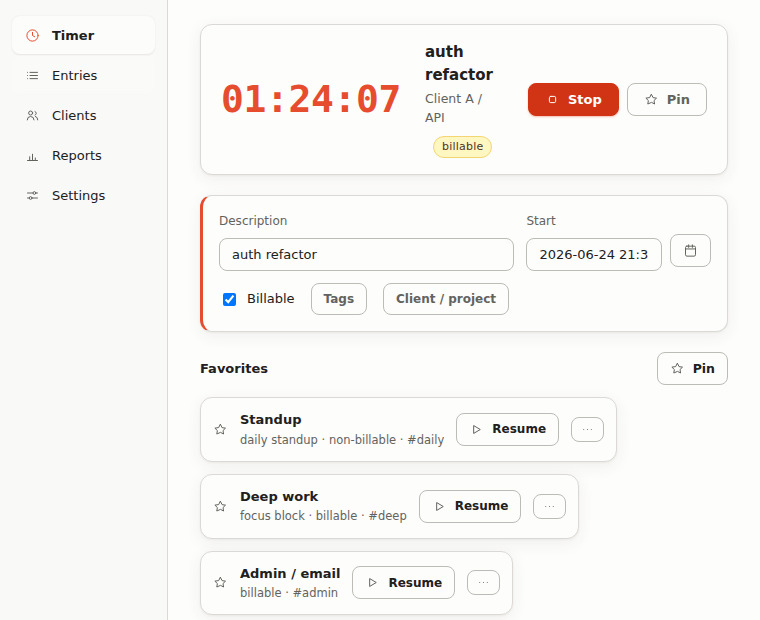
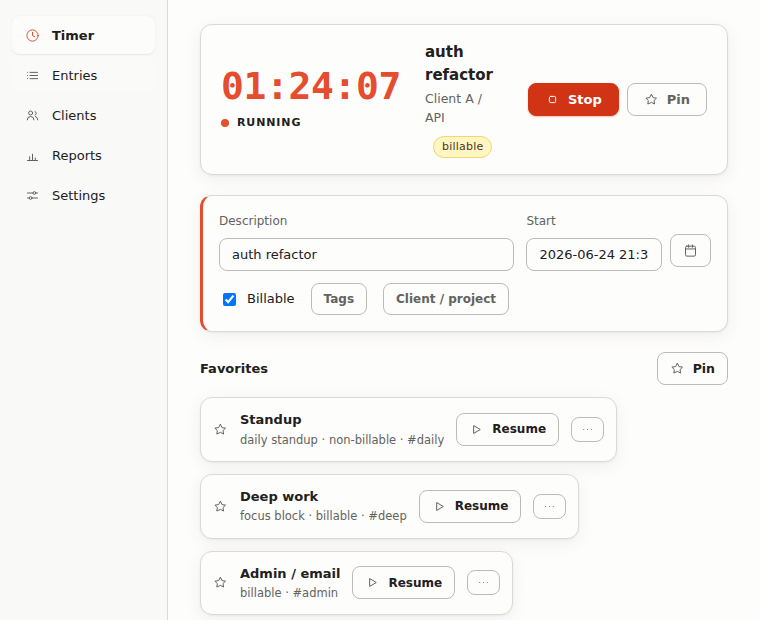
Say "running" on the Timer card (#142)
The card signalled the app's most important state by colour alone: no word,
no dot — only a count-up that turned clay. design.html D05 requires every
semantic state to carry a word or icon beside its colour, and A05 puts the
WCAG floor under it.

The state line was in the DOM all along, `display: none` on the reasoning
that "the green dot + the clay clock already say it" — but the card carried
no dot. It renders now: the word, inked, beside an accent `.tc-dot`, the
treatment `.timer-strip` already carried and this card never did.

The word takes --ink, not the accent it used to declare: at 11px an accent
word is accent-as-text below A01's >=24px large-text branch, the same breach
issue #141 closed on the strip clock. The accent moves to the dot, a non-text
mark on the A02 floor and design.html §07's recorded run-dot exemption.

Both JUDGE guards that should have caught this were presence-only reads of
`#timer-state.textContent`, which a display:none node satisfies — TIMER_VIEW
and COLOUR_PAIRING, the A05 scene itself. Both now score the rendered
outcome, and both fail against the pre-fix renderer.

Claude-Session: https://claude.ai/code/session_01AzRQKwjXmJgkskJZS9gRaD

Changed region(s): [[0.2724, 0.0919, 0.5447, 0.2145]]

diff --git a/packages/gui/renderer/styles.css b/packages/gui/renderer/styles.css
@@ -165,10 +165,12 @@ header.mast {
 }
 /* The running count-up is one of the two sanctioned accent uses on this card. */
 .timer-card.running .clock { color: var(--accent); }
-/* The running/idle word is redundant — the green dot + the clay running clock already say it —
-   so it is hidden (kept in the DOM for assistive tech + the harness probe). */
+/* design.html D05/A05 — this line is what keeps the card off colour-alone signalling. It was
+   display:none on the reasoning that "the green dot + the clay clock already say it", but the
+   card carried no dot: the recoloured count-up WAS the whole signal (issue 142). Worded and
+   dotted now — the treatment .timer-strip already carried and this card never did. */
 .timer-card .state {
-  display: none;
+  display: flex;
   align-items: center;
   gap: 8px;
   font-size: 11px;
@@ -178,8 +180,19 @@ header.mast {
   color: var(--muted);
   margin-top: 8px;
 }
-/* The running-state indicator is the other sanctioned accent use on this card. */
-.timer-card.running .state { color: var(--accent); }
+/* The dot is the other sanctioned accent use on this card, and it is a non-text mark on the A02
+   floor — which is why the accent sits here and not on the word beside it. At 11px the word
+   would be accent-as-text below A01's ≥24px large-text branch, the same breach issue 141 closed
+   on the strip clock; the word inks instead, and the accent signals in a shape A01 permits. */
+.timer-card .tc-dot {
+  width: 8px;
+  height: 8px;
+  border-radius: 50%;
+  background: var(--faint);
+  flex: none;
+}
+.timer-card.running .state { color: var(--ink); }
+.timer-card.running .tc-dot { background: var(--accent); }
 .timer-card .ctx { flex: 1; min-width: 0; }
 .timer-card .ctx .desc { font-size: 15px; font-weight: 590; color: var(--ink); margin-bottom: 4px; }
 .timer-card.idle .ctx .desc { color: var(--muted); font-weight: 450; }

diff --git a/packages/gui/renderer/index.html b/packages/gui/renderer/index.html
@@ -68,7 +68,11 @@
             <section class="timer-card idle" id="timer-card">
               <div class="tc-clock-block">
                 <div class="clock tnum" id="timer-clock">00:00:00</div>
-                <div class="state" id="timer-state">idle</div>
+                <!-- design.html D05/A05: the running state is said in a word AND marked with a
+                     dot, so it never rides on the recoloured count-up alone (issue #142). The
+                     dot is decorative to assistive tech — #timer-state-word carries the state
+                     in text, and #timer-state's own textContent is that word. -->
+                <div class="state" id="timer-state"><span class="tc-dot" aria-hidden="true"></span><span id="timer-state-word">idle</span></div>
               </div>
               <div class="ctx">
                 <div class="desc" id="timer-desc">nothing running</div>

diff --git a/context/mockups/timer.html b/context/mockups/timer.html
@@ -205,7 +205,12 @@
         <div class="r-top">
           <div>
             <div class="clock run tnum">01:23:45</div>
-            <div class="r-state"><span class="dot run"></span> since 09:00</div>
+            <!-- design.html D05/A05: the state line is dotted AND worded — the mark and the
+                 word together, so the running state never rides on the recoloured count-up
+                 alone. The shipped card drew neither until issue #142; it now renders this
+                 line as `running`, with the since-time reachable in the live-edit Start
+                 field below. -->
+            <div class="r-state"><span class="dot run"></span> running · since 09:00</div>
           </div>
           <div class="r-desc">
             <div class="d">Drafting proposals</div>

diff --git a/packages/gui/renderer/app.js b/packages/gui/renderer/app.js
@@ -496,7 +496,9 @@ function renderTimerCard(running) {
       }
     }
   }
-  $('timer-state').textContent = running ? 'running' : 'idle';
+  // The word goes into the inner span, not the whole .state line — the line also holds the
+  // D05 dot, and writing textContent on the line would delete it (issue #142).
+  $('timer-state-word').textContent = running ? 'running' : 'idle';
   if (running) {
     $('timer-clock').textContent = fmtDur(elapsed(running.startUtc, running.excludedSeconds ?? 0));
     $('timer-desc').textContent = running.description ?? 'your timer';

diff --git a/acceptance/criteria/judge-rubric.md b/acceptance/criteria/judge-rubric.md
@@ -30,7 +30,7 @@ The harness writes `acceptance/evidence/judge-report.json` and the screenshots i
 | `POPOVER_REJECT` | **A refused Stop/Start from the tray popover is surfaced in the popover's own announced region, never a silent no-op (§12 R21 — the tray twin of `WRITE_REJECTION_FEEDBACK` site d).** Driving the real popover renderer over the running snapshot with the strict-rejecting mock (`rejectWrites` — the same rejecting `toggle` the main-window site d uses), clicking **Stop** rejects and the popover **catches and displays**: the `#pop-warning` region is **visible, non-empty, and announced** (`role=status` + `aria-live`), carrying the reason ALONE ('stop time is before the entry started') — the mock rejects in **Electron's real `ipcRenderer.invoke` shape** (the invoke wrapper plus the thrown class, as the QA driver reproduces it), so the region is scored on **what the user reads**: the kernel exactly, with no "Error invoking remote method", no "StoreError", no `--flag` name (issue 138). Crucially the popover **stays operable**: `#toggle` is still present, enabled, and still reads **'Stop'** (the popover never pretends the refused stop landed — the running face persists), **Open Stint** stays reachable, and a **second** Stop attempt rejects again with the warning still shown (repeatable, not one-shot). Machine-scored facts: the announced non-empty `#pop-warning` after the refusal; the live, still-'Stop' toggle on the still-`.running` popover with `#open` present; and the persisting warning + live toggle after a second attempt. Fails if the popover swallows the rejection (no visible/announced message), flips to idle as if the stop landed, or wedges its controls. | §12 R21, §12 R01 | `popover-reject.png` |
 | `IN_WINDOW_TIMER` | The **full Active-Timer card lives in the Timer view**, while the **Entries view keeps only a compact strip** of it. In the **Timer view** (reached by clicking the Timer nav item) the full **Active-Timer card** mirrors `tt status`: a **live per-second count-up** (advancing +3s across a pinned-clock step, not reset), a **running state** indicator, the running entry's **description** + **client/project** label, and the primary **Stop** action (Stop is the view's `--accent-solid`-filled primary, design.html D11) — with **no Switch control** (Switch is removed, issue #34) and **no start affordance while running** (the start panel is idle-only, §12 R05 / issue #51 — asserted by `RUNNING_SINGLE_ACTION`); the card's accent is confined to the running clock + state indicator (mirroring the popover count) and the rest of the card chrome stays monochrome. On the **Entries view** the **compact `#timer-strip`** mirrors the running count-up + state + description and links to the Timer view, but carries **no full-panel Stop control**. Machine-scored facts: the Timer-view card is hosted inside the `data-view="timer"` section, its clock reads the derived count-up and advances +3s, its text carries the running description ('auth refactor') and client/project ('Client A / API'), and a Stop control is present and visible while running **with no `#timer-switch` element anywhere**; AND the Entries-view strip shows the running count-up ('01:24:07'), state ('running'), and description ('auth refactor') while exposing no `#timer-stop` (and no `#timer-switch`), its clock computing the design.html D06 compact Clock role — **24px, tabular numerals** (issue #141: the running count-up paints `--accent`, which carries text only on A01's ≥24px large-text branch). **Idle strip (STATES.md Entries × edge):** on an idle snapshot the Entries view **still paints the compact strip** in its idle face — `00:00:00` clock, state `idle`, empty description — never a vanished or stale-running strip. Would fail if the full panel stayed on Entries, the card/strip placement regressed, a `#timer-switch` reappeared, or the idle strip vanished/kept running data. | §12 R04, §12 R14 | `timer-view.png`, `main-timer.png`, `main-timer-idle.png` |
 | `CROSS_VIEW_FRESHNESS` | The Active-Timer card **mirrors `tt status` even after an Entries-toolbar control has been touched** (issue #50 regression, §12 R04). The renderer latches an entries-query flag once a range/filter/search control is used; the pre-fix `load()` early-returned into the entries-only query and never repainted the shared surfaces, so on the Timer view a Start click mutated the DB while the card stayed frozen on its idle face. Machine-scored facts, driven over the idle list fixture: **(a)** clicking the Entries toolbar's **Today** range preset records a `listEntries` query (the toolbar latched); **(b)** routing to the Timer view paints the idle card (state `idle`, primary reads `Start`, clock `00:00:00`); **(c)** clicking **Start** flips the card to running **in place, without any reload** (a window marker set before the click survives): state text `running`, the card carries `.running`, and — per the idle-only start panel (§12 R05 / issue #51) — the whole `#start-panel` hides (its one-tap `#toggle` with it) while the accented `#timer-stop` primary becomes visible; and **(d)** the count-up **advances +3s across a pinned-clock step** (live, not a one-off stale paint). Would fail if the card stayed idle/frozen after the toolbar was touched — the exact #50 symptom. | §12 R04 | `timer-cross-view.png` |
-| `TIMER_VIEW` | The **full Timer view (G5)** is the GUI core-entry surface, and the **running entry's start is adjusted through the inline START-ONLY picker disclosure (§05 R06 / §12 R14)**. Routing to the Timer view renders the **live clock** reading the **derived count-up** (now − startUtc − excludedSeconds) — it **advances +3s** across the pinned-clock step, **not reset**, and **keeps counting while the start is edited** (editing the open row never stops it) — with the **live-edit-running strip** present: a **raw text Start field** (`#le-start`, `type="text"` in localInputValue format — **no native `datetime-local`**, G1) and **no End-time input** anywhere. That value is **the string the user retypes**, not a serialization: it renders **space-separated, seconds always** (`2026-06-24 21:35:53`), matches **no `T`-separated pattern**, and its **`placeholder` describes that exact shape** (`YYYY-MM-DD HH:mm:ss` — before issue #159 the two agreed with neither each other nor the mockups). Both spellings still **parse**. Clicking the Start field's calendar affordance (`#le-start-pick`, `aria-expanded`) expands the picker **IN FLOW** into `#le-start-disc` below the field — **zero `.stp-backdrop` / dialog / modal chrome anywhere**, the container computes `position: static` — showing the **running block** with a **start drag grip ONLY** (`.stp-grip`; **no `.stp-resize` end grip, no end label, no end echo field** — the variant takes no end binding, so its write path is structurally incapable of producing an end) and the **computed future transparency fade** (`.stp-block.me.open` `mask-image` gradient) dissolving the block toward the future; the snapshot's other same-day entries paint **gray**. **Dragging the grip a known pixel delta advances the raw `#le-start` text LIVE by the snapped 5-min amount** (−30px on the 720px/24h track = −60min: the exact 21:35:53 → 20:35:00 — the field seeds the stored start EXACTLY, to the second (§12 R15 / issue #49); only the dragged grip snaps), and the **debounced commit sends an `edit` patch over IPC (`window.__EDITED__`) that carries `startUtc` but has NO `endUtc` key** — the open row stays open, its end **empty, never a synthetic "now"**. A visible **Stop** (the accent-solid-filled primary) is present while running, with **no `#timer-switch`** (issue #34). Machine-scored facts: the clock reads '01:24:07' and advances +3s, computing the design.html D06 full Clock role (**38px, tabular numerals, the `--num` stack**); the strip is present with no `#le-end` and a `type="text"` Start; the disclosure opens in flow (static position, no backdrop, no dialog role, toggle `aria-expanded=true`); the start grip is present with no end grip/label/echo; the running block's computed mask-image contains a gradient; ≥1 gray other entry paints; the Start field seeds the exact stored `2026-06-24 21:35:53`, carries the placeholder `YYYY-MM-DD HH:mm:ss`, **matches that placeholder's shape digit-for-digit**, and matches **no** `\d{4}-\d{2}-\d{2}T` pattern (issue #159), and the grip drag advances `#le-start` to `2026-06-24 20:35:00` live — still `T`-free; and the committed patch is exactly a `startUtc` ('2026-06-24T20:35:00.000Z') with **no `endUtc` key**. Would fail if a modal/backdrop reappeared on this surface, an end affordance or value materialized, the future fade were absent, the drag stopped writing the text field live (or off-snap), the count-up reset, the patch ever carried `endUtc`, or the field drifted back to a wire-shaped value its own placeholder does not describe. | §12 R14, §05 R06 | `timer-view-full.png` |
+| `TIMER_VIEW` | The **full Timer view (G5)** is the GUI core-entry surface, and the **running entry's start is adjusted through the inline START-ONLY picker disclosure (§05 R06 / §12 R14)**. Routing to the Timer view renders the **live clock** reading the **derived count-up** (now − startUtc − excludedSeconds) — it **advances +3s** across the pinned-clock step, **not reset**, and **keeps counting while the start is edited** (editing the open row never stops it) — with the **live-edit-running strip** present: a **raw text Start field** (`#le-start`, `type="text"` in localInputValue format — **no native `datetime-local`**, G1) and **no End-time input** anywhere. That value is **the string the user retypes**, not a serialization: it renders **space-separated, seconds always** (`2026-06-24 21:35:53`), matches **no `T`-separated pattern**, and its **`placeholder` describes that exact shape** (`YYYY-MM-DD HH:mm:ss` — before issue #159 the two agreed with neither each other nor the mockups). Both spellings still **parse**. Clicking the Start field's calendar affordance (`#le-start-pick`, `aria-expanded`) expands the picker **IN FLOW** into `#le-start-disc` below the field — **zero `.stp-backdrop` / dialog / modal chrome anywhere**, the container computes `position: static` — showing the **running block** with a **start drag grip ONLY** (`.stp-grip`; **no `.stp-resize` end grip, no end label, no end echo field** — the variant takes no end binding, so its write path is structurally incapable of producing an end) and the **computed future transparency fade** (`.stp-block.me.open` `mask-image` gradient) dissolving the block toward the future; the snapshot's other same-day entries paint **gray**. **Dragging the grip a known pixel delta advances the raw `#le-start` text LIVE by the snapped 5-min amount** (−30px on the 720px/24h track = −60min: the exact 21:35:53 → 20:35:00 — the field seeds the stored start EXACTLY, to the second (§12 R15 / issue #49); only the dragged grip snaps), and the **debounced commit sends an `edit` patch over IPC (`window.__EDITED__`) that carries `startUtc` but has NO `endUtc` key** — the open row stays open, its end **empty, never a synthetic "now"**. A visible **Stop** (the accent-solid-filled primary) is present while running, with **no `#timer-switch`** (issue #34). The card also **says** it is running (design.html **D05/A05**, issue #142): the word **`running`** is in the card's **rendered `innerText`** — painted by the state line, not merely held in a `display:none` node the way it was for as long as that bug shipped — and an **accent-filled dot** sits beside it, so the app's most important state never rides on the recoloured count-up alone. Machine-scored facts: the clock reads '01:24:07' and advances +3s, computing the design.html D06 full Clock role (**38px, tabular numerals, the `--num` stack**); the card's rendered `innerText` contains `running`, the `#timer-state` line is laid out and visible with that word as its text, and the `.tc-dot` beside it is visible with a computed background equal to the resolved `--accent` (the OUTCOME, replacing the presence-only `#timer-state.textContent` probe, which the shipped bug satisfied); the strip is present with no `#le-end` and a `type="text"` Start; the disclosure opens in flow (static position, no backdrop, no dialog role, toggle `aria-expanded=true`); the start grip is present with no end grip/label/echo; the running block's computed mask-image contains a gradient; ≥1 gray other entry paints; the Start field seeds the exact stored `2026-06-24 21:35:53`, carries the placeholder `YYYY-MM-DD HH:mm:ss`, **matches that placeholder's shape digit-for-digit**, and matches **no** `\d{4}-\d{2}-\d{2}T` pattern (issue #159), and the grip drag advances `#le-start` to `2026-06-24 20:35:00` live — still `T`-free; and the committed patch is exactly a `startUtc` ('2026-06-24T20:35:00.000Z') with **no `endUtc` key**. Would fail if the running state went back to speaking in colour alone (the word hidden, the dot dropped or left unfilled), a modal/backdrop reappeared on this surface, an end affordance or value materialized, the future fade were absent, the drag stopped writing the text field live (or off-snap), the count-up reset, the patch ever carried `endUtc`, or the field drifted back to a wire-shaped value its own placeholder does not describe. | §12 R14, §05 R06 | `timer-view-full.png` |
 | `FUTURE_START_GUARD` | A **mistyped FUTURE start on the running entry is REFUSED and surfaced where it was typed**, never the silent wedge issue #61 caused ("Stop appears dead"). Driving the real renderer over the **future-start guard mock** (the `edit` IPC rejects a start landing **after now** exactly as core's `edit()` does, §05 R06 / §03), typing a **next-day instant** into the running Start field (`#le-start`) and letting the **debounced live-edit commit** fire raises the **announced** (`role=status` + `aria-live`) **`#timer-warning`** region — genuinely on-screen in the active Timer view — with the reason **and only the reason** ("start time is in the future" — the mock rejects in Electron's real wrapped shape, so a painted invoke wrapper / exception class / `--flag` fails the item, issue 138), and **records NOTHING** (`window.__EDITED__` stays null). Crucially **no wedge**: the **live-edit strip stays present** and **Stop is still there** (the count-up never froze). **Correcting** the start to a valid **past** instant then commits cleanly — the warning **clears** (via `load()` → `clearOverlapBanner()`) and `window.__EDITED__` carries the corrected `startUtc` with **no `endUtc` key** (the open row stays open) — and clicking **Stop** flips the status to **idle**: the timer was stoppable all along. Machine-scored facts: the future-start commit shows an announced, non-empty `#timer-warning` while `__EDITED__` stays null and the strip + Stop persist; the corrected commit clears the warning and records `startUtc` '2026-06-24T22:00:00.000Z' with no `endUtc`; and Stop flips `status.running` to false. Would fail if the refused live edit were silently swallowed (no visible warning), if the future start were recorded, if the strip/Stop vanished (a wedge), or if correcting-then-stopping did not work. Builds on the WRITE_REJECTION_FEEDBACK precedent (the same #65 `#timer-warning` region). | §05 R06, §05 R01, §03, §16, §12 R21 | `timer-future-start-reject.png` |
 | `FAVORITES_RAIL` | The Timer view's **pinned favorites rail** renders **one row per `FavoriteView`** (name + client/project/billable meta), each with a **one-click Resume** that fires `window.stint.startFavorite({name})` **exactly once**, plus a **Pin-as-favorite** affordance that fires `window.stint.pinFavorite` and a **kebab** exposing **rename / unpin** (`renameFavorite` / `unpinFavorite`). The **empty-favorites state** instructs ('pin a favorite' / mentions `tt fav`). The rail chrome is **monochrome** (accent reserved for the primary action), and `window.stint` exposes a **callable method for each of the five favorite channels** (`listFavorites` / `pinFavorite` / `renameFavorite` / `unpinFavorite` / `startFavorite`) — the PARITY_REACH extension for favorites, so the rail is the reachable GUI surface for the `tt fav` family (§17 R14). Machine-scored facts: three seeded rows (Standup / Deep work / Admin) each with a Resume + kebab; a Pin affordance present; clicking the first Resume fires `startFavorite` exactly once with `{name:'Standup'}`; all five favorite channels callable on `window.stint`; **the pin, rename and unpin flows are DRIVEN to completion** (STATES.md Timer × edge; issue #52 — Electron's renderer implements no `window.prompt`): the inline pin field committed on Enter fires `pinFavorite` with the typed name + the open-row template and the new chip lands in the rail; kebab → Rename through the same inline field fires `renameFavorite` and the chip's name changes; kebab → **Unpin** fires `unpinFavorite` **exactly once** with the chip's ref and the chip **leaves the rail** (back to the three seeded rows); and the empty variant paints the instructive empty state ('pin' + 'tt fav'). | §05 R09, §05 R10, §12 R14, §17 R14 | `timer-favorites.png`, `timer-favorites-empty.png` |
 | `ACCENT_DISCIPLINE` | The **accent family** — `--accent` (tomato·9, the non-text signal) and `--accent-solid` (tomato·11, the filled-primary background) — appears **only on the sanctioned surfaces**: each view's single `.primary` action (whose **fill is `--accent-solid`**, never raw `--accent` — white-on-tomato·9 is the prohibited D04 pair), the running-state surfaces (card / strip / popover / live-edit), the picker "me" block's **drag grips**, and the active nav item's **icon** (D12 — never the chip or label). The rest of the chrome is monochrome warm grays. The harness captures a whole-chrome computed-style scan over **both** family colours as evidence; the aesthetic judgement is scored over the screenshot. | design.html D04/D11 · §15 | `main-running.png` |
@@ -73,7 +73,7 @@ The harness writes `acceptance/evidence/judge-report.json` and the screenshots i
 | `RECOVERY_NOTICE` | The Settings → Backups **corruption-recovery banner** (§20 R05 / §17 R12). On a launch where the database was recovered from a backup (`state.recoveryNotice` non-null), routing to Settings renders a **one-shot banner** that names **both** the backup it recovered from (`recoveredFrom`) **and** the quarantined `.corrupted` file it set aside (`quarantinedTo`) — so the user sees exactly what happened, not a silent recovery. The Backups group + a reachable **Restore…** still render alongside it. The banner uses the monochrome warn `--flag` notice chrome (no accent). Machine-scored facts: the recovery banner renders naming both `recoveredFrom` and `quarantinedTo`, and a Restore… stays reachable on the same surface. | §20 R05, §17 R12, §15 | `main-recovery.png` |
 | `PARITY_REACH` | **The rendered window surfaces an affordance for every capability (§17 R8).** Nothing `tt` can do is unreachable from the GUI: the persistent left-nav **routes to each of the five views** (Timer / Entries / Clients / Reports / Settings) and **each view exposes its actions** (the timer's Start/Stop, the Entries control bar + per-row edit/split/merge/delete, the Clients create/rename/archive, the report builder + exports, the Settings controls). The static coverage claim is asserted in `gui/test/parity.test.ts` (every IPC channel maps to a real `tt` command, **and** — bidirectionally — every distinct `tt` capability is covered by a parity-matrix row, modulo an explicit GUI-absent allow-set) and `parity-matrix.json`; the behavioural claim is asserted by `features/parity.feature` running over **both** surfaces. Machine-scored sub-fact here: the injected `window.stint` (the same preload surface production exposes) provides a **callable method for every `CHANNELS` entry** (a channel with no method is a capability the renderer cannot invoke) and the nav routes to all five views. Subjective: each view's affordances read as discoverable, not buried. | §17 R8, §12 R3 | `parity-timer.png`, `parity-entries.png`, `parity-clients.png`, `parity-reports.png`, `parity-settings.png` |
 | `TARGET_SIZE` | **The A03 floor (target size, WCAG 2.2 SC 2.5.8), machine-scored.** Sweeping every **visible interactive control** (buttons, links, form fields, tabbable elements, `[data-act]` affordances; a control nested inside another target measures with its parent) across **all five views of the running main window and the tray popover**, every target's bounding box is **≥24×24 CSS px**, or it is covered by a WCAG-sanctioned exception: the **spacing exception**, tested as SC 2.5.8 defines it — a **24px-diameter circle centred on the undersized target** intersects **no other target's bounding box and no other undersized target's circle** (the known, deliberate cases: the live-edit billable checkbox, the toolbar search field, and the settings toggle, each with a clear circle) — or the **inline exception** for links inside a line of text. Zero unsanctioned undersized targets gates the pass, and every spacing-sanctioned control is named in the report so the exception list stays reviewable. A sub-24px control landing against a neighbour (a 22px ops button beside an overlapping event's ops, say) flips the pass to false. | design.html A03 | `main-target-size.png` |
-| `COLOUR_PAIRING` | **The A05 floor (colour never the sole signal, WCAG 1.4.1) via the D05 pairing rule, machine-scored.** Every semantic colour in the window carries a **word or icon beside it**: the **run-dot** renders beside the literal word **"running"** (the Entries strip's dot + state word; the Timer card's state word — the run-dot's contrast exemption in design.html §07 is *conditional on this pairing*); **billable-ness is worded**, not colour-only (the running card's `billable` / `non-billable` badge); the calendar's **overlap band carries its worded `.otag`** ("overlap Nm") and the **slept hatch carries the `#i-moon` icon marker**; and the two message palettes both carry **sentences**, not bare colour — the **warn advisory** (overlap banner) is worded on the `--flag`/`--flag-bg` palette while the **err block** (a refused Stop's `#timer-warning`) is worded on the `--danger`/`--danger-weak` palette with the Entries mirror carrying `.error` (D15 — an advisory never reads as a block, and neither state rides on hue alone). Fails if any of these markers loses its word/icon while keeping its colour. | design.html D05/D15/A05 | `main-colour-pairing.png` |
+| `COLOUR_PAIRING` | **The A05 floor (colour never the sole signal, WCAG 1.4.1) via the D05 pairing rule, machine-scored.** Every semantic colour in the window carries a **word or icon beside it**: the **run-dot** renders beside the literal word **"running"**, and every marker is scored **as rendered, not merely present** — the Entries strip pairs by its **visible dot** (D05 takes a word *or* an icon, and the strip's word is the deliberately hidden one — one indicator per surface, not two), while the **Timer card carries both a visible word and a visible dot**, the run-dot's contrast exemption in design.html §07 being *conditional on that pairing*. Presence alone is what this scene used to score, and it passed a Timer card whose word and dot were both `display: none` for as long as issue #142 shipped — a card signalling running by a recoloured clock and nothing else, the one thing D05 forbids. **billable-ness is worded**, not colour-only (the running card's `billable` / `non-billable` badge); the calendar's **overlap band carries its worded `.otag`** ("overlap Nm") and the **slept hatch carries the `#i-moon` icon marker**; and the two message palettes both carry **sentences**, not bare colour — the **warn advisory** (overlap banner) is worded on the `--flag`/`--flag-bg` palette while the **err block** (a refused Stop's `#timer-warning`) is worded on the `--danger`/`--danger-weak` palette with the Entries mirror carrying `.error` (D15 — an advisory never reads as a block, and neither state rides on hue alone). Fails if any of these markers loses its word/icon while keeping its colour — including by hiding it rather than deleting it. | design.html D05/D15/A05 | `main-colour-pairing.png` |
 | `DESKTOP_FEEL` | The window reads as a quiet, minimal desktop app that respects the system (system typography, light-mode Warm Paper surfaces, monochrome with one rationed accent) — not a busy or branded web page. | §15 · design.html | all screenshots |
 
 **Guardrail.** JUDGE is non-deterministic, so it is never the sole gate on anything

diff --git a/acceptance/criteria/COVERAGE.md b/acceptance/criteria/COVERAGE.md
@@ -990,8 +990,10 @@ actions)): the renderer paints the FULL card from the `UiState` running entry
 primary action while running (the start panel is idle-only, issue #51; the
 atomic stop-then-start stays core's `start` contract, §05 R01, with no dedicated
 Switch control), `gui/renderer/index.html` hosts `#timer-card` (with
-`#timer-clock` /`#timer-state`/`#timer-desc`/`#timer-meta`/`#timer-flags` + the
-Stop button, and NO `#timer-switch` ) INSIDE the `data-view="timer"` section and
+`#timer-clock` /`#timer-state` — the state LINE, an accent `.tc-dot` beside the
+`#timer-state-word` word (issue #142) — /`#timer-desc`/`#timer-meta`/`#timer-flags`
++ the Stop button, and NO `#timer-switch` ) INSIDE the `data-view="timer"` section
+and
 a compact `#timer-strip` (with `#strip-clock` /`#strip-state`/`#strip-desc`, no
 Stop, no flags grid) in the `data-view="entries"` section, +
 `gui/renderer/app.js` (`renderTimerCard()` paints the full running/idle face —
@@ -1017,7 +1019,24 @@ font-size from the rendered element, and GOLD
 `gui/test/design-guard.test.ts` censuses every `color:` declaration on every
 surface: the tokens painted as text must be exactly those design.html gives a
 text role, and each accent-as-text site must resolve to ≥24px at D06's 680.
-**The card stays fresh across views (issue #50):** JUDGE
+**The running state is worded, not only coloured (design.html D05/A05, issue
+#142):** the card's state line ships VISIBLE — `running` /`idle` in
+`#timer-state-word` with a `.tc-dot` beside it, `--faint` when idle and
+`--accent` when running — after shipping `display:none` , which left the
+recoloured count-up as the whole running signal on the one surface whose entire
+purpose is the timer (the Entries strip already carried its dot; the mast
+`.summary` stays hidden as the deliberate one-indicator-not-two call). The word
+takes `--ink` , not the accent: at 11px an accent word would be the same sub-24px
+accent-as-text breach A01 forbids and issue #141 closed on the strip clock, so
+the accent sits on the dot, a non-text mark on the A02 floor and the run-dot
+pairing exemption design.html §07 records. JUDGE `TIMER_VIEW` scores the OUTCOME
+— the word inside the card's rendered `innerText` , the state line laid out
+carrying that word, and the dot visible at the resolved `--accent` — replacing
+the presence-only `#timer-state.textContent` probe that the shipped bug
+satisfied. JUDGE `COLOUR_PAIRING` , the A05 scene, was fooled by the same
+presence-only read and now scores each running surface as RENDERED: the strip
+pairs by its visible dot (D05 takes a word OR an icon), the card by a visible
+word AND a visible dot. **The card stays fresh across views (issue #50):** JUDGE
 `CROSS_VIEW_FRESHNESS` (`packages/gui/judge/`, `timer-cross-view.png` — after an
 Entries-toolbar control is touched (the Today preset latches the renderer's
 entries query), routing to the Timer view and clicking Start flips the card to

diff --git a/acceptance/criteria/STATES.md b/acceptance/criteria/STATES.md
@@ -18,8 +18,8 @@ waiver with a reason; a new view or state added without a row here is a coverage
 
 | State | What it looks like | Evidence | Notes/Waiver |
 |---|---|---|---|
-| **Ideal** — idle card | 00:00:00 clock, Start primary, idle-only start panel visible | JUDGE `START_FORM`, `RUNNING_SINGLE_ACTION` (idle snapshot) — `main-start-form.png` | |
-| **Ideal** — running card | Live count-up, description, client/project, accented Stop, no Switch | JUDGE `TIMER_VIEW`, `IN_WINDOW_TIMER` — `timer-view.png`, `timer-view-full.png` | |
+| **Ideal** — idle card | 00:00:00 clock, the worded state (`idle`) with a faint dot beside it, Start primary, idle-only start panel visible | JUDGE `START_FORM`, `RUNNING_SINGLE_ACTION` (idle snapshot) — `main-start-form.png` | |
+| **Ideal** — running card | Live count-up, the worded state (`running`) with an accent run dot beside it, description, client/project, accented Stop, no Switch | JUDGE `TIMER_VIEW`, `IN_WINDOW_TIMER` — `timer-view.png`, `timer-view-full.png` | The word + dot are the D05/A05 pairing that keeps the state off colour alone — hidden until issue #142 |
 | **Error** — refused Stop (`#timer-warning`) | Announced region names the refusal — the reason alone, no IPC wrapper / exception class / CLI flag (issue 138); strip/Stop stay live, no wedge | JUDGE `WRITE_REJECTION_FEEDBACK` (site d), `FUTURE_START_GUARD` — `main-edit-reject.png`, `timer-future-start-reject.png` | |
 | **Edge** — live-edit strip (running only) | Raw text `#le-start`, no `#le-end`, count-up keeps advancing while edited | JUDGE `TIMER_VIEW` — `timer-view-full.png` | |
 | **Edge** — inline start-only picker disclosure | Opens in flow under the field, start grip only, future-fade mask | JUDGE `TIMER_VIEW` — `timer-view-full.png` | |
